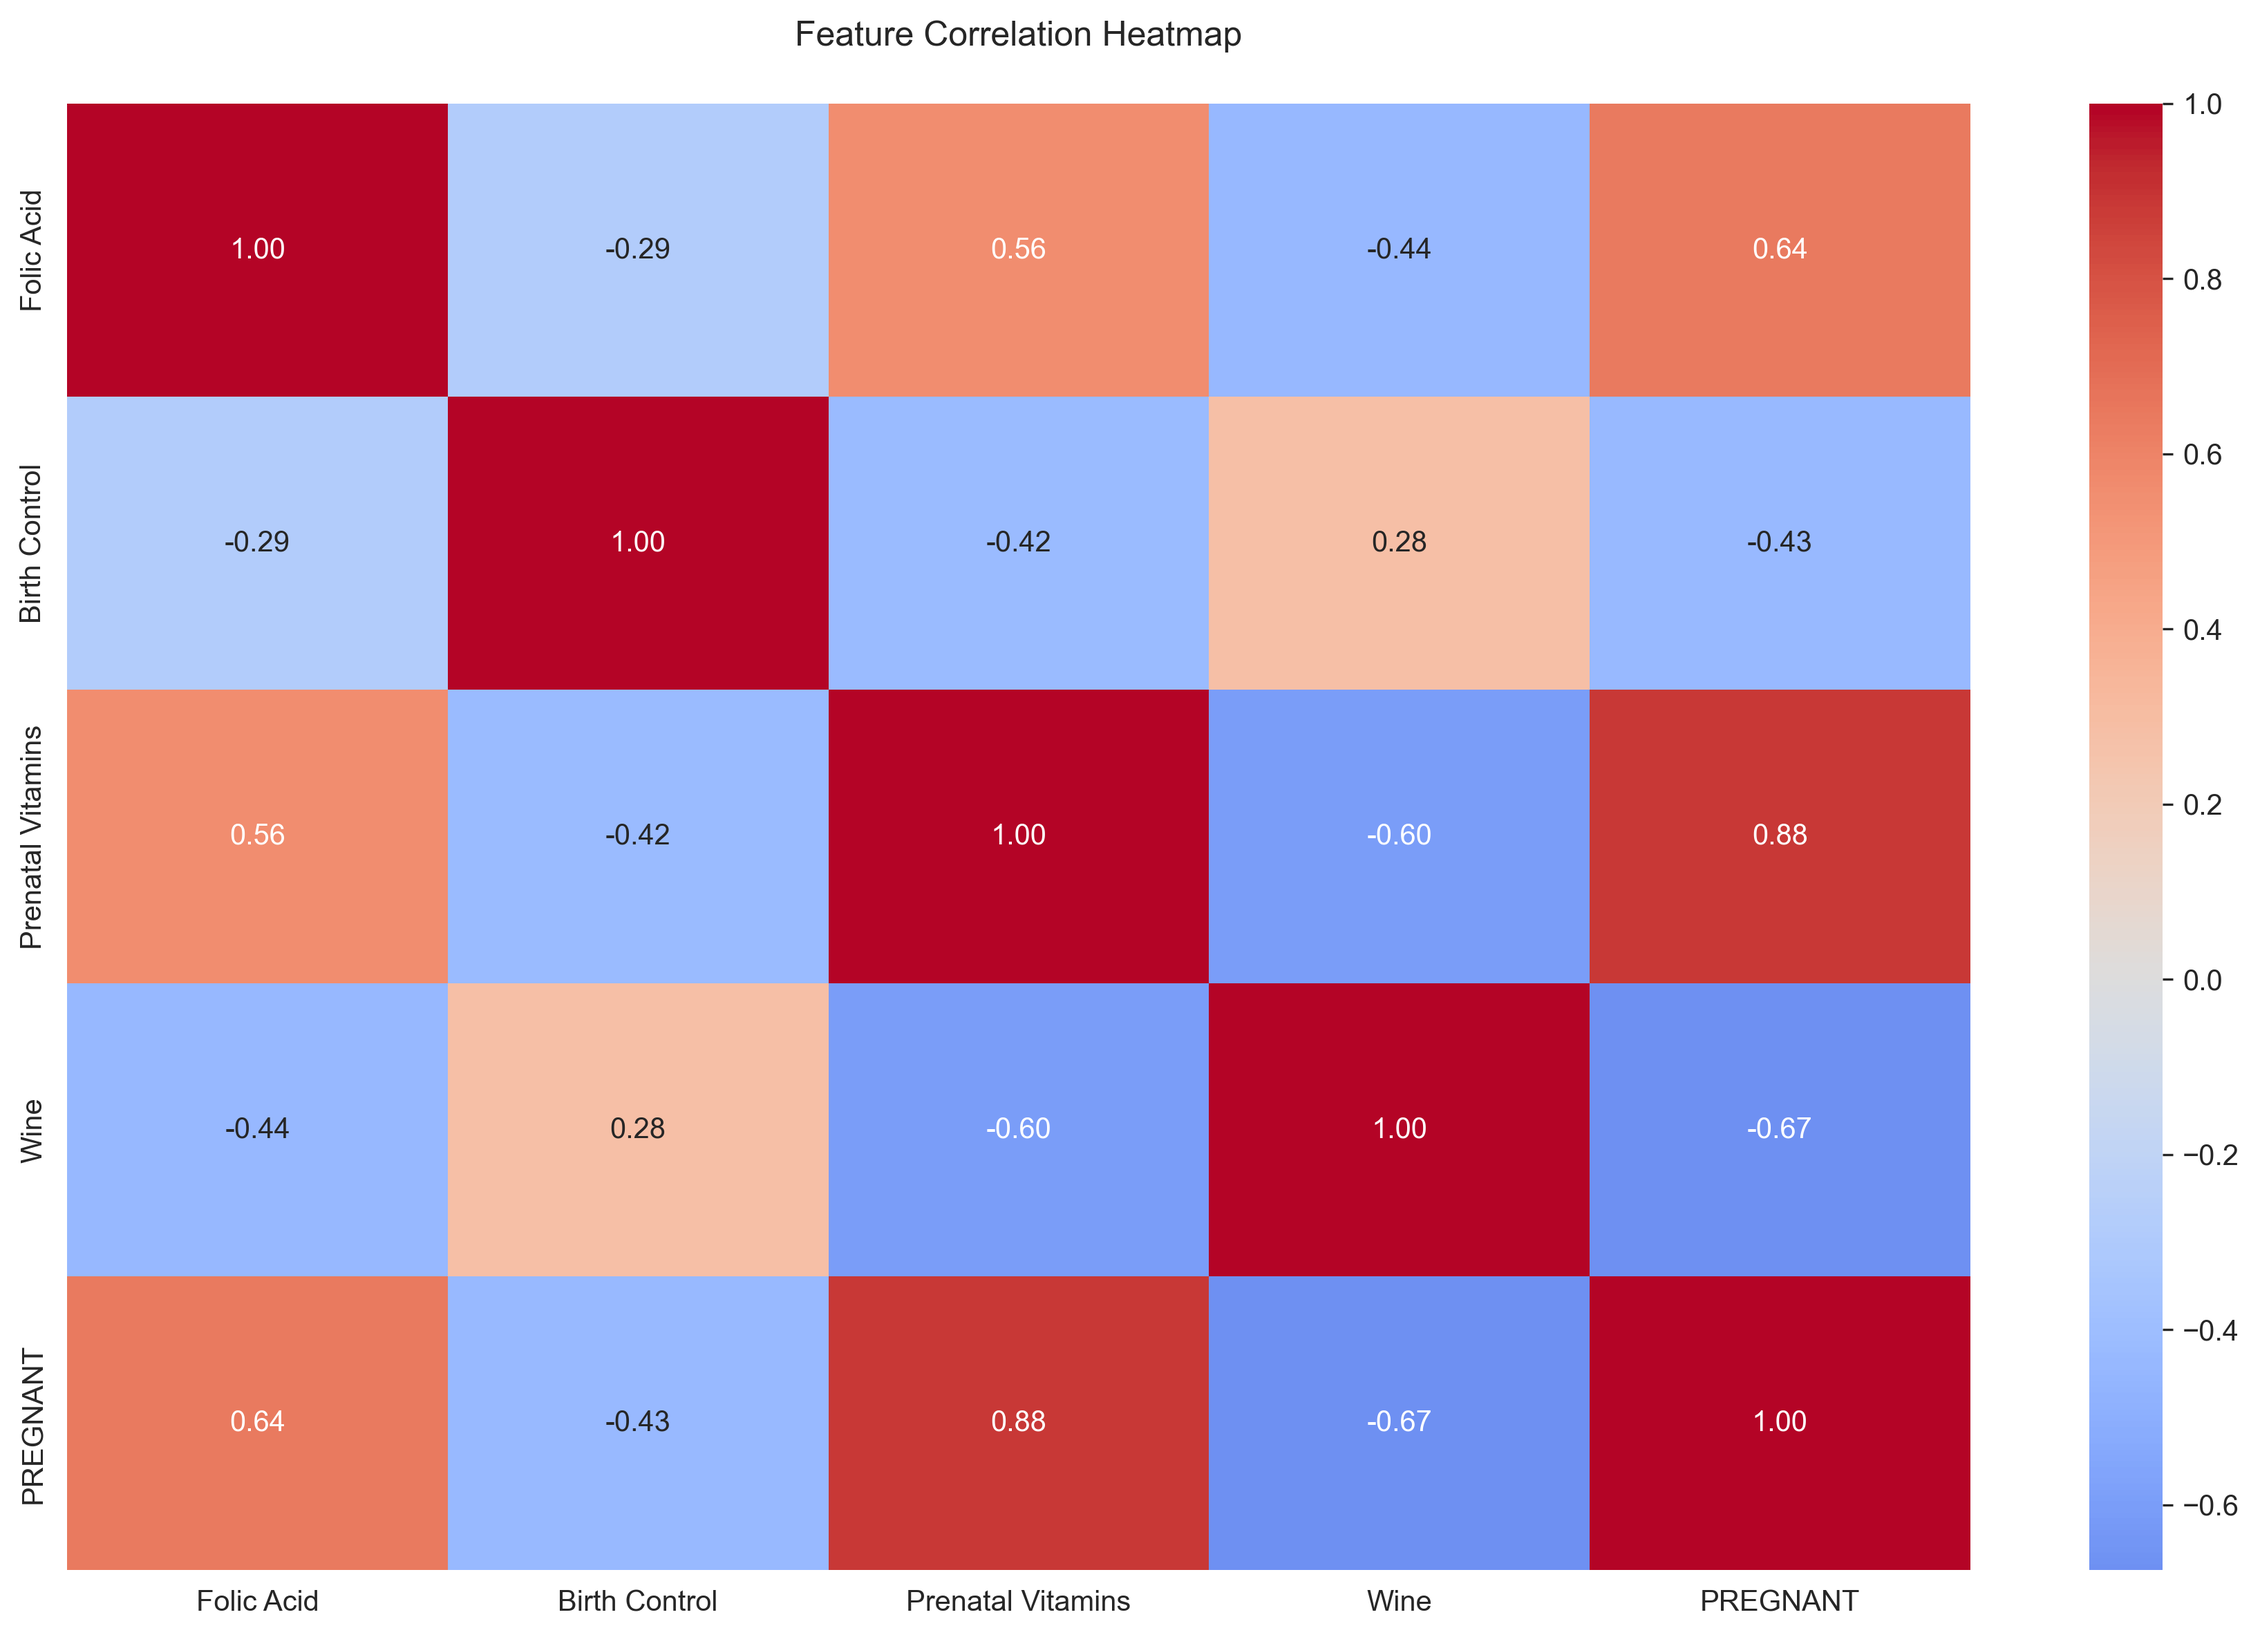
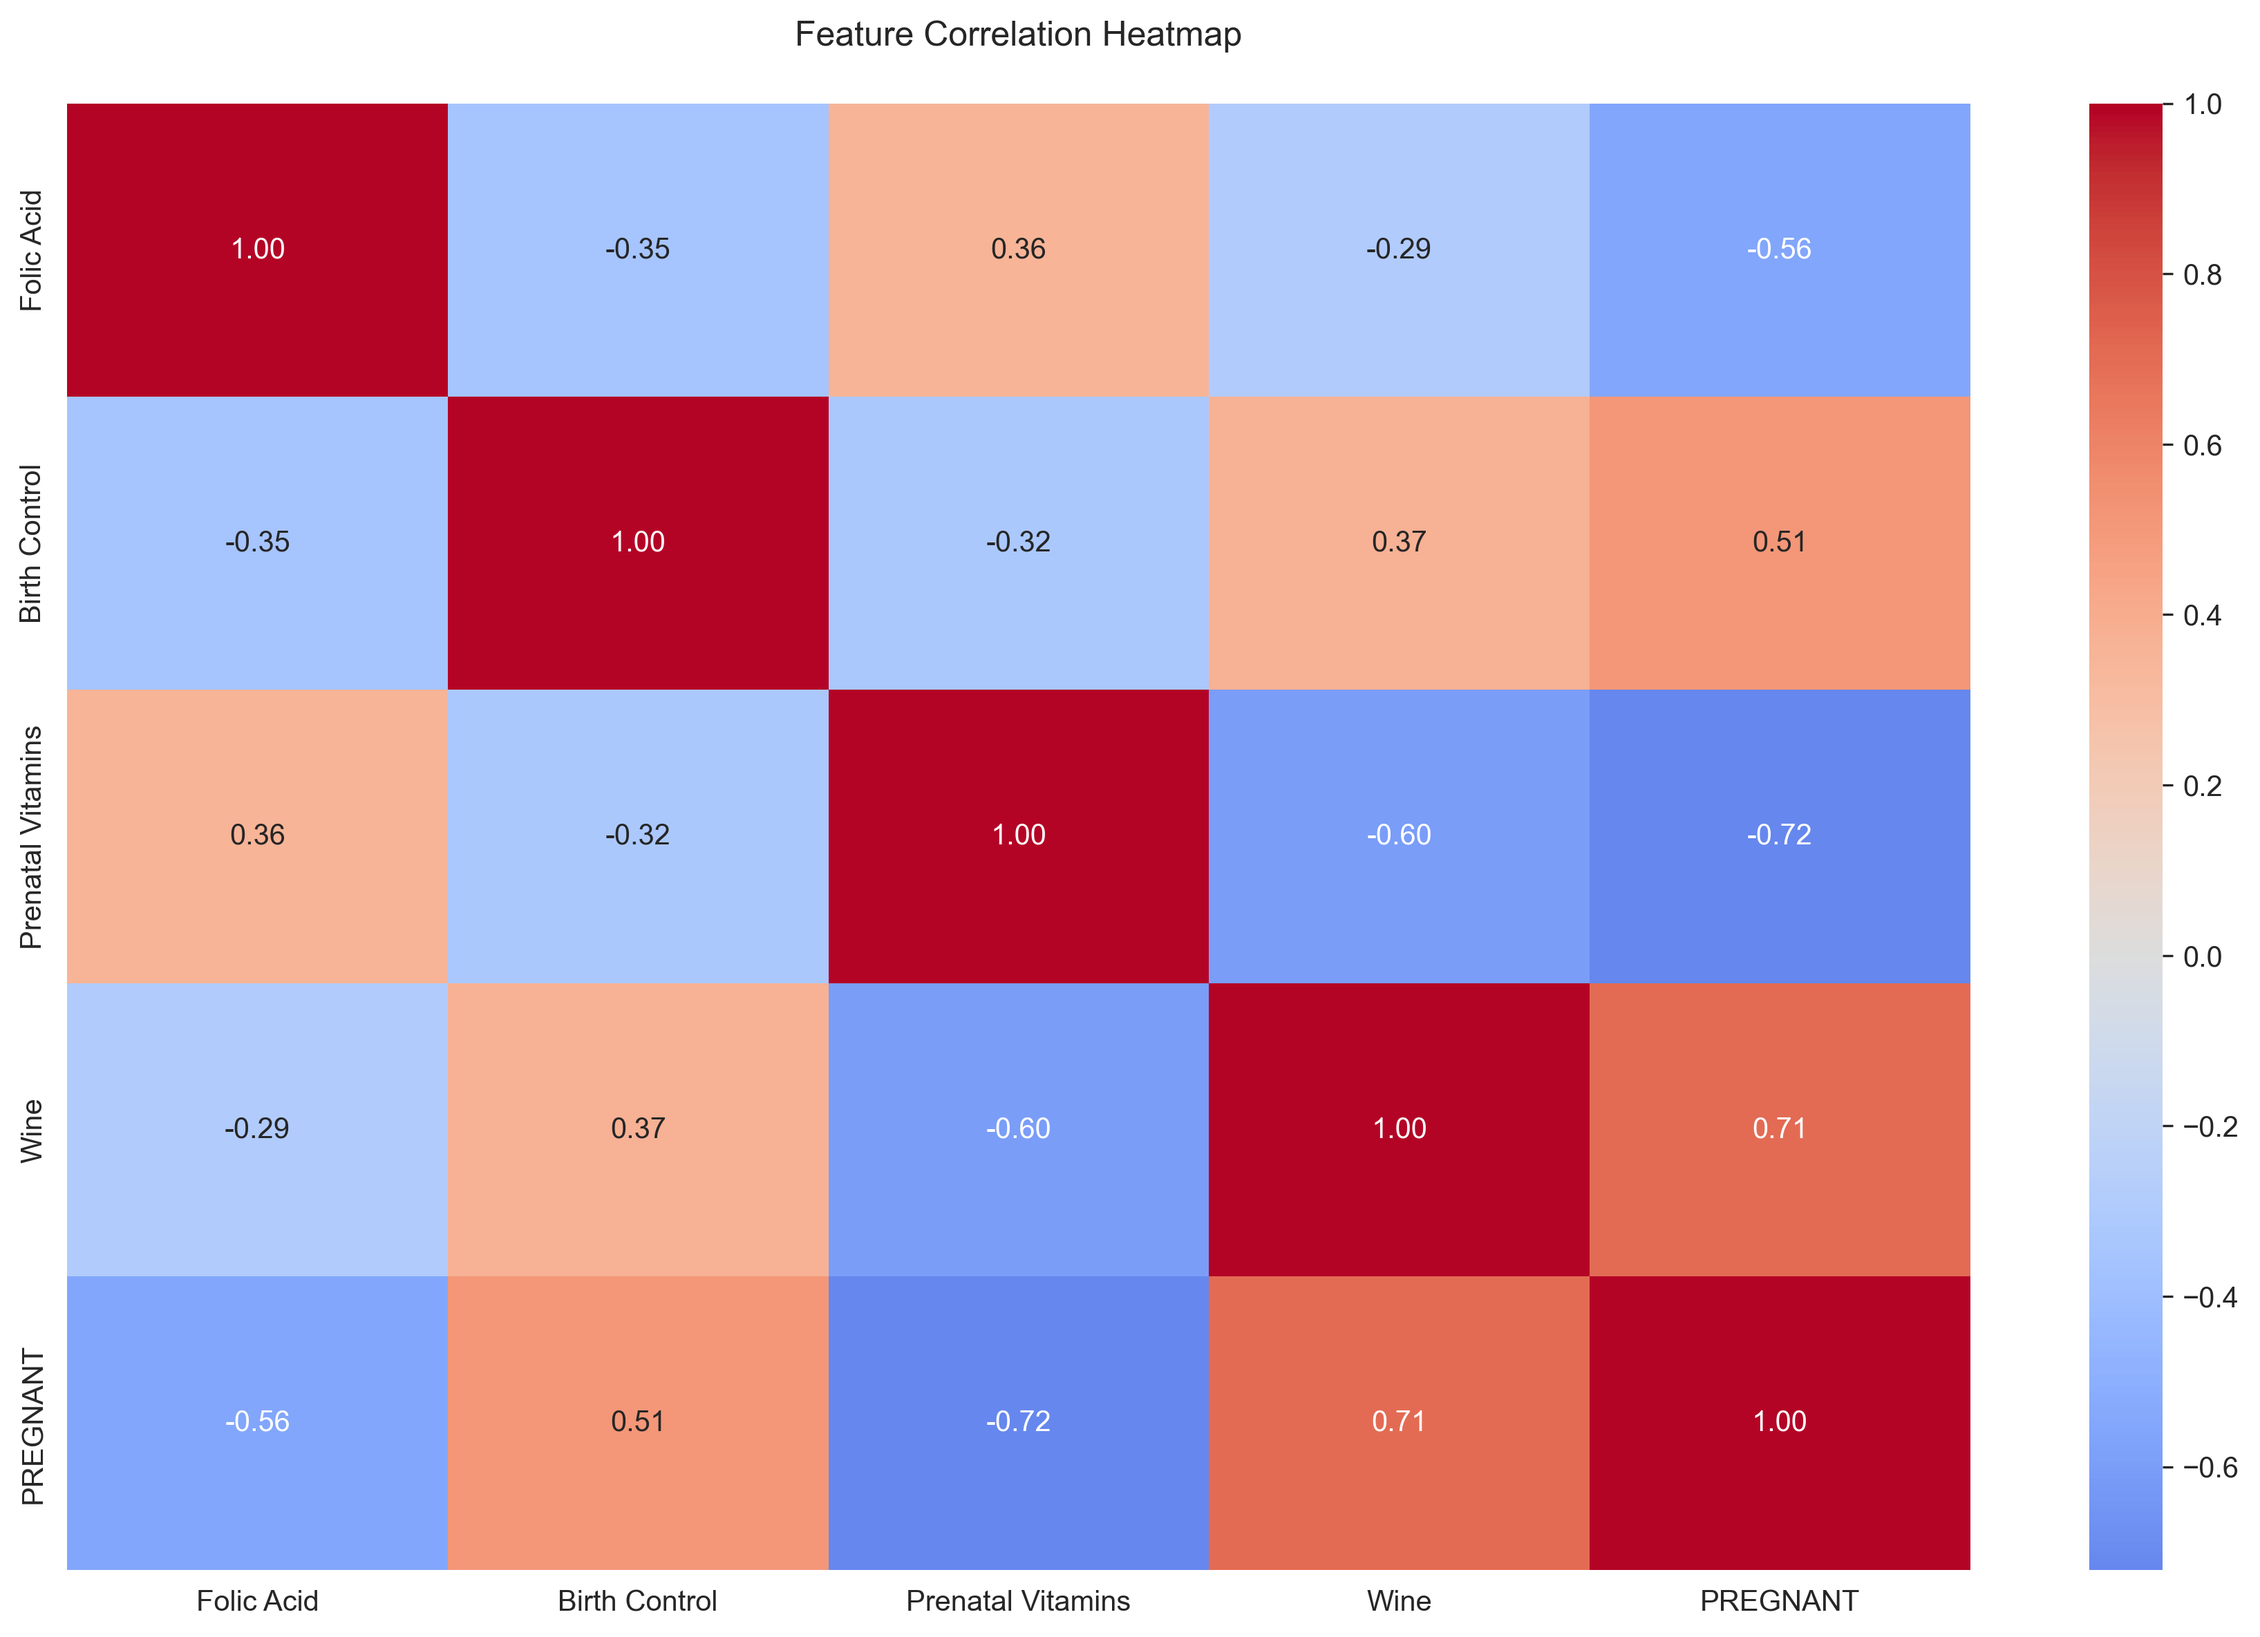
Fix Seaborn deprecation warnings and improve code quality
- Update Seaborn to v0.13.2
- Fix categorical dtype deprecation warning
- Fix barplot palette warning by adding hue parameter
- Clean up test docstrings
- Maintain 90% code coverage

diff --git a/regression_analysis/regression.py b/regression_analysis/regression.py
@@ -6,10 +6,11 @@ from sklearn.preprocessing import LabelEncoder
 import numpy as np
 import matplotlib.pyplot as plt
 import seaborn as sns
+from pandas.api.types import CategoricalDtype
 
-def create_enhanced_visualizations(df, feature_columns, target_column, model_coef):
+def create_enhanced_visualizations(df_input, features, target, coef):
     """Create enhanced visualizations for the regression analysis
-    
+
     Args:
         df (pd.DataFrame): Input DataFrame
         feature_columns (list): List of feature column names
@@ -17,108 +18,108 @@ def create_enhanced_visualizations(df, feature_columns, target_column, model_coe
         model_coef (np.ndarray): Model coefficients
     """
     # Create a copy of the dataframe to avoid modifying the original
-    plot_df = df.copy()
-    
+    plot_df = df_input.copy()
+
     # Encode categorical variables for correlation
-    categorical_columns = plot_df[feature_columns].select_dtypes(include=['object']).columns
+    categorical_columns = [col for col in features if isinstance(plot_df[col].dtype, CategoricalDtype) or plot_df[col].dtype == 'object']
     for col in categorical_columns:
         le = LabelEncoder()
         plot_df[col] = le.fit_transform(plot_df[col].astype(str))
     # Set the style
     sns.set_style("whitegrid")
     plt.rcParams['figure.figsize'] = (15, 10)
-    
+
     # 1. Correlation Heatmap
     plt.figure(figsize=(12, 8))
-    correlation_matrix = plot_df[feature_columns + [target_column]].corr()
+    correlation_matrix = plot_df[features + [target]].corr()
     sns.heatmap(correlation_matrix, annot=True, cmap='coolwarm', center=0, fmt='.2f')
     plt.title('Feature Correlation Heatmap', pad=20)
     plt.tight_layout()
     plt.savefig('correlation_heatmap.png', dpi=300, bbox_inches='tight')
     plt.close()
-    
+
     # 2. Enhanced Scatter Plots with Trend Lines
     # Use up to 6 features from the available feature columns
-    plot_features = feature_columns[:6]
-    
+    plot_features = features[:6]
+
     plt.figure(figsize=(15, 10))
     for i, feature in enumerate(plot_features, 1):
         plt.subplot(2, 3, i)
-        sns.regplot(data=plot_df, x=feature, y=target_column, 
-                   scatter_kws={'alpha':0.5}, 
+        sns.regplot(data=plot_df, x=feature, y=target,
+                   scatter_kws={'alpha':0.5},
                    line_kws={'color': 'red'})
         plt.title(f'{feature} vs Pregnancy')
         plt.xlabel(feature)
         plt.ylabel('Pregnant (0=No, 1=Yes)')
-    
+
     plt.tight_layout()
     plt.savefig('scatter_plots.png', dpi=300, bbox_inches='tight')
     plt.close()
-    
+
     # 3. Feature Importance Plot
     importance_df = pd.DataFrame({
-        'Feature': feature_columns,
-        'Importance': np.abs(model_coef[0])
+        'Feature': features,
+        'Importance': np.abs(coef[0])
     }).sort_values('Importance', ascending=True)
-    
+
     plt.figure(figsize=(10, 8))
-    sns.barplot(data=importance_df, y='Feature', x='Importance', 
-                palette='viridis')
+    sns.barplot(data=importance_df, y='Feature', x='Importance',
+                hue='Feature', legend=False, palette='viridis')
     plt.title('Absolute Feature Importance')
     plt.xlabel('Absolute Coefficient Value')
     plt.tight_layout()
     plt.savefig('feature_importance.png', dpi=300, bbox_inches='tight')
     plt.close()
-    
+
     print("\nEnhanced visualizations saved as:")
     print("1. correlation_heatmap.png - Shows correlations between all features")
     print("2. scatter_plots.png - Scatter plots with trend lines for top features")
     print("3. feature_importance.png - Bar plot of feature importance")
 
-def perform_regression(excel_path, target_column, feature_columns=None):
+def perform_regression(data_path, target_var, features=None):
     """Perform regression analysis on the given dataset
-    
+
     Args:
         excel_path (str): Path to the Excel file containing the data
         target_column (str): Name of the target column
         feature_columns (list, optional): List of feature columns to use
-        
+
     Returns:
         dict: Dictionary containing model results and metrics
     """
     # Read the Excel file
-    df = pd.read_excel(excel_path)
-    
+    df = pd.read_excel(data_path)
+
     # If feature columns not specified, use all columns except target
-    if feature_columns is None:
-        feature_columns = [col for col in df.columns if col != target_column]
-    
+    if features is None:
+        features = [col for col in df.columns if col != target_var]
+
     # Handle categorical variables
-    X = df[feature_columns].copy()
-    categorical_columns = X.select_dtypes(include=['object']).columns
-    
+    X = df[features].copy()
+    categorical_columns = [col for col in X.columns if isinstance(X[col].dtype, CategoricalDtype) or X[col].dtype == 'object']
+
     # Apply label encoding to categorical columns
     label_encoders = {}
     for column in categorical_columns:
         label_encoders[column] = LabelEncoder()
         X[column] = label_encoders[column].fit_transform(X[column].astype(str))
-    
+
     # Prepare target variable
-    y = df[target_column]
-    
+    y = df[target_var]
+
     # Split the data
     X_train, X_test, y_train, y_test = train_test_split(X, y, test_size=0.2, random_state=42)
-    
+
     # Create and train the model (using Logistic Regression since this is a classification problem)
     model = LogisticRegression(random_state=42)
     model.fit(X_train, y_train)
-    
+
     # Make predictions
     y_pred = model.predict(X_test)
-    
+
     # Calculate metrics
     accuracy = accuracy_score(y_test, y_pred)
-    
+
     # Print results
     print("\nClassification Results:")
     print("----------------------")
@@ -126,17 +127,17 @@ def perform_regression(excel_path, target_column, feature_columns=None):
     print("\nDetailed Classification Report:")
     print(classification_report(y_test, y_pred))
     print("\nFeature Importance:")
-    for feature, coef in zip(feature_columns, model.coef_[0]):
-        print(f"{feature}: {coef:.4f}")
+    for feature, importance in zip(features, model.coef_[0]):
+        print(f"{feature}: {importance:.4f}")
     print(f"Intercept: {model.intercept_[0]:.4f}")
-    
+
     # Create enhanced visualizations
-    create_enhanced_visualizations(df, feature_columns, target_column, model.coef_)
-    
+    create_enhanced_visualizations(df, features, target_var, model.coef_)
+
     # Return results for testing
     return {
         'accuracy': accuracy,
-        'feature_importance': dict(zip(feature_columns, model.coef_[0])),
+        'feature_importance': dict(zip(features, model.coef_[0])),
         'predictions': y_pred.tolist(),
         'true_values': y_test.tolist()
     }
@@ -145,7 +146,7 @@ if __name__ == "__main__":
     # File path and target column
     excel_path = "target.xlsx"
     target_column = "PREGNANT"
-    
+
     # Specify feature columns (excluding unnamed and target columns)
     feature_columns = [
         'Implied Gender',
@@ -166,5 +167,5 @@ if __name__ == "__main__":
         'Wine',
         'Maternity Clothes'
     ]
-    
+
     perform_regression(excel_path, target_column, feature_columns)

diff --git a/tests/test_regression.py b/tests/test_regression.py
@@ -4,32 +4,46 @@ import numpy as np
 import pytest
 from regression_analysis.regression import perform_regression
 
+def create_correlated_feature(target, p_pos_if_1, p_pos_if_0):
+    """Create a feature correlated with the target
+
+    Args:
+        target (np.ndarray): Target array of 0s and 1s
+        p_pos_if_1 (float): Probability of 1 if target is 1
+        p_pos_if_0 (float): Probability of 1 if target is 0
+    """
+    return np.where(
+        target == 1,
+        np.random.choice([0, 1], len(target), p=[1-p_pos_if_1, p_pos_if_1]),
+        np.random.choice([0, 1], len(target), p=[1-p_pos_if_0, p_pos_if_0])
+    )
+
 @pytest.fixture
 def sample_data():
     """Create sample data for testing"""
     np.random.seed(42)
     n_samples = 100
-    
+
     # Create correlated sample features
     pregnant = np.random.randint(0, 2, n_samples)
     data = {
-        'Folic Acid': np.where(pregnant == 1, np.random.choice([0, 1], n_samples, p=[0.2, 0.8]), np.random.choice([0, 1], n_samples, p=[0.8, 0.2])),
-        'Birth Control': np.where(pregnant == 1, np.random.choice([0, 1], n_samples, p=[0.8, 0.2]), np.random.choice([0, 1], n_samples, p=[0.4, 0.6])),
-        'Prenatal Vitamins': np.where(pregnant == 1, np.random.choice([0, 1], n_samples, p=[0.1, 0.9]), np.random.choice([0, 1], n_samples, p=[0.9, 0.1])),
-        'Wine': np.where(pregnant == 1, np.random.choice([0, 1], n_samples, p=[0.9, 0.1]), np.random.choice([0, 1], n_samples, p=[0.3, 0.7])),
+        'Folic Acid': create_correlated_feature(pregnant, 0.2, 0.8),
+        'Birth Control': create_correlated_feature(pregnant, 0.8, 0.4),
+        'Prenatal Vitamins': create_correlated_feature(pregnant, 0.1, 0.9),
+        'Wine': create_correlated_feature(pregnant, 0.9, 0.3),
         'PREGNANT': pregnant
     }
     return pd.DataFrame(data)
 
 def test_model_accuracy(sample_data, tmp_path):
-    """Test if model achieves reasonable accuracy"""
+    """Test if model achieves reasonable accuracy with realistic data"""
     # Save sample data to temp Excel file
     excel_path = tmp_path / "test_data.xlsx"
     sample_data.to_excel(excel_path, index=False)
-    
+
     # Run regression
     result = perform_regression(excel_path, 'PREGNANT')
-    
+
     # Check if accuracy is above random chance (0.5)
     assert result['accuracy'] > 0.5
 
@@ -37,9 +51,9 @@ def test_feature_importance(sample_data, tmp_path):
     """Test if feature importance values are reasonable"""
     excel_path = tmp_path / "test_data.xlsx"
     sample_data.to_excel(excel_path, index=False)
-    
+
     result = perform_regression(excel_path, 'PREGNANT')
-    
+
     # Check if we have importance values for all features
     assert len(result['feature_importance']) == len(sample_data.columns) - 1
 
